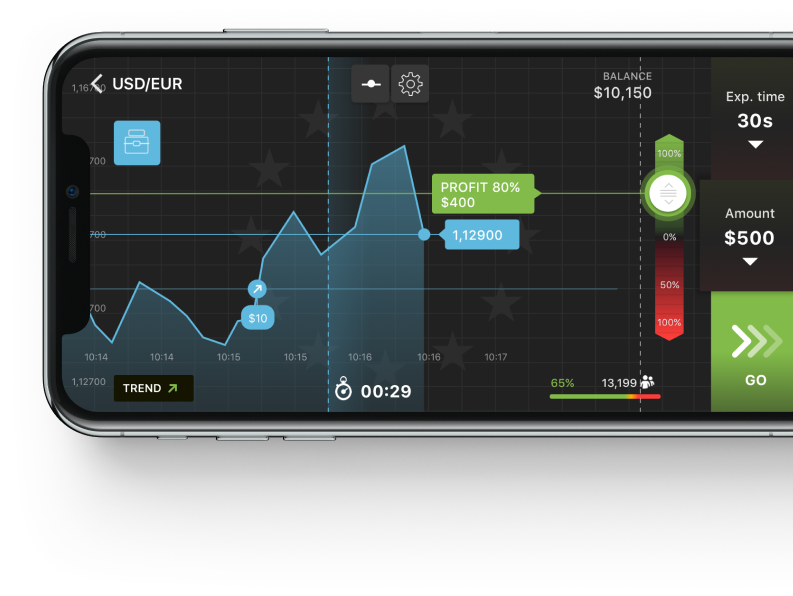
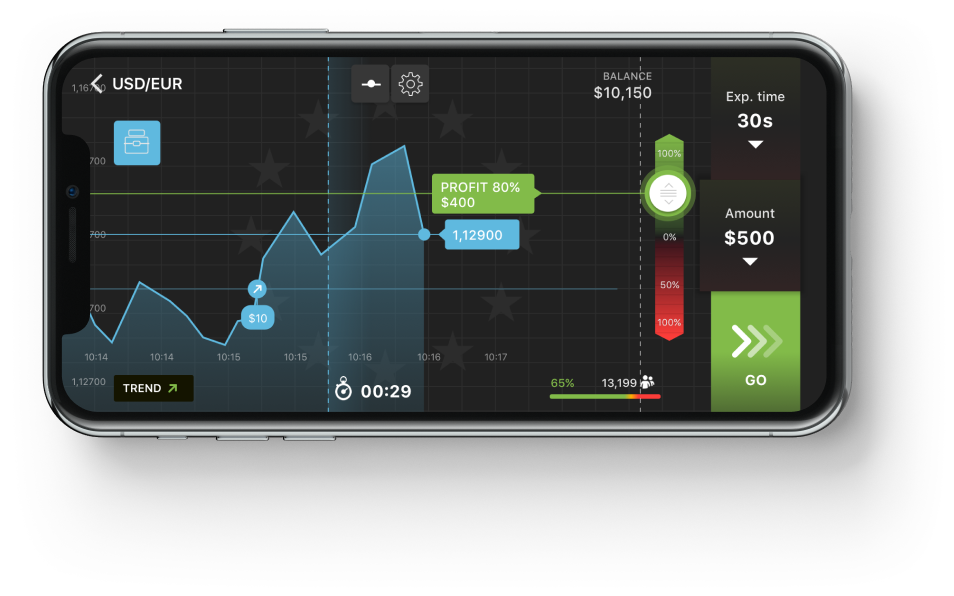
add full page case-updown-mobile

diff --git a/src/blocks/case-updown/case-updown.scss b/src/blocks/case-updown/case-updown.scss
@@ -153,7 +153,7 @@
 }
 .case-updown--mobile .case-updown__header-img img {
 	/* 2 Block model */
-	width: 530px;
+	width: 614px;
 	margin-left: 15px;
 	@media (min-width: 480px) {
 		/* 2 Block model */
@@ -161,34 +161,17 @@
 	}
 	@media (min-width: 768px) {
 		/* 2 Block model */
-		margin-top: 200px;
+		width: 793px;
+		margin-top: 90px;
 		margin-left: 57px;
 	}
 	@media (min-width: 992px) {
 		/* 2 Block model */
-		width: 793px;
 		margin-top: 107px;
 	}
 	@media (min-width: 1200px) {
 		/* 2 Block model */
-	}
-	@media (min-width: 1440px) {
-		/* 2 Block model */
+		width: 954px;
 		margin-left: 16px;
 	}
-	@media (min-width: 1600px) {
-		/* 2 Block model */
-		margin-left: 257px;
-	}
 }
-/* 1 Positioning */
-
-/* 2 Block model */
-
-/* 3 Typography */
-
-/* 4 Visual */
-
-/* 5 Animation */
-
-/* 6 Misc */

diff --git a/src/blocks/picture-shadow/picture-shadow.scss b/src/blocks/picture-shadow/picture-shadow.scss
@@ -29,7 +29,7 @@
 
 	/* 4 Visual */
 	content: '';
-	background-image: url(../images/shadow.png);
+	background-image: url(../images/picture-shadow__bg.png);
 	background-size: cover;
 }
 .picture-shadow img {
@@ -40,4 +40,16 @@
 	/* 2 Block model */
 	display: block;
 	width: 100%;
+}
+.picture-shadow--big::before {
+	/* 1 Positioning */
+	top: -3%;
+	right: -4%;
+	bottom: -15%;
+
+	/* 2 Block model */
+	width: 140%;
+
+	/* 4 Visual */
+	background-image: url(../images/picture-shadow__bg--big.png);
 }
